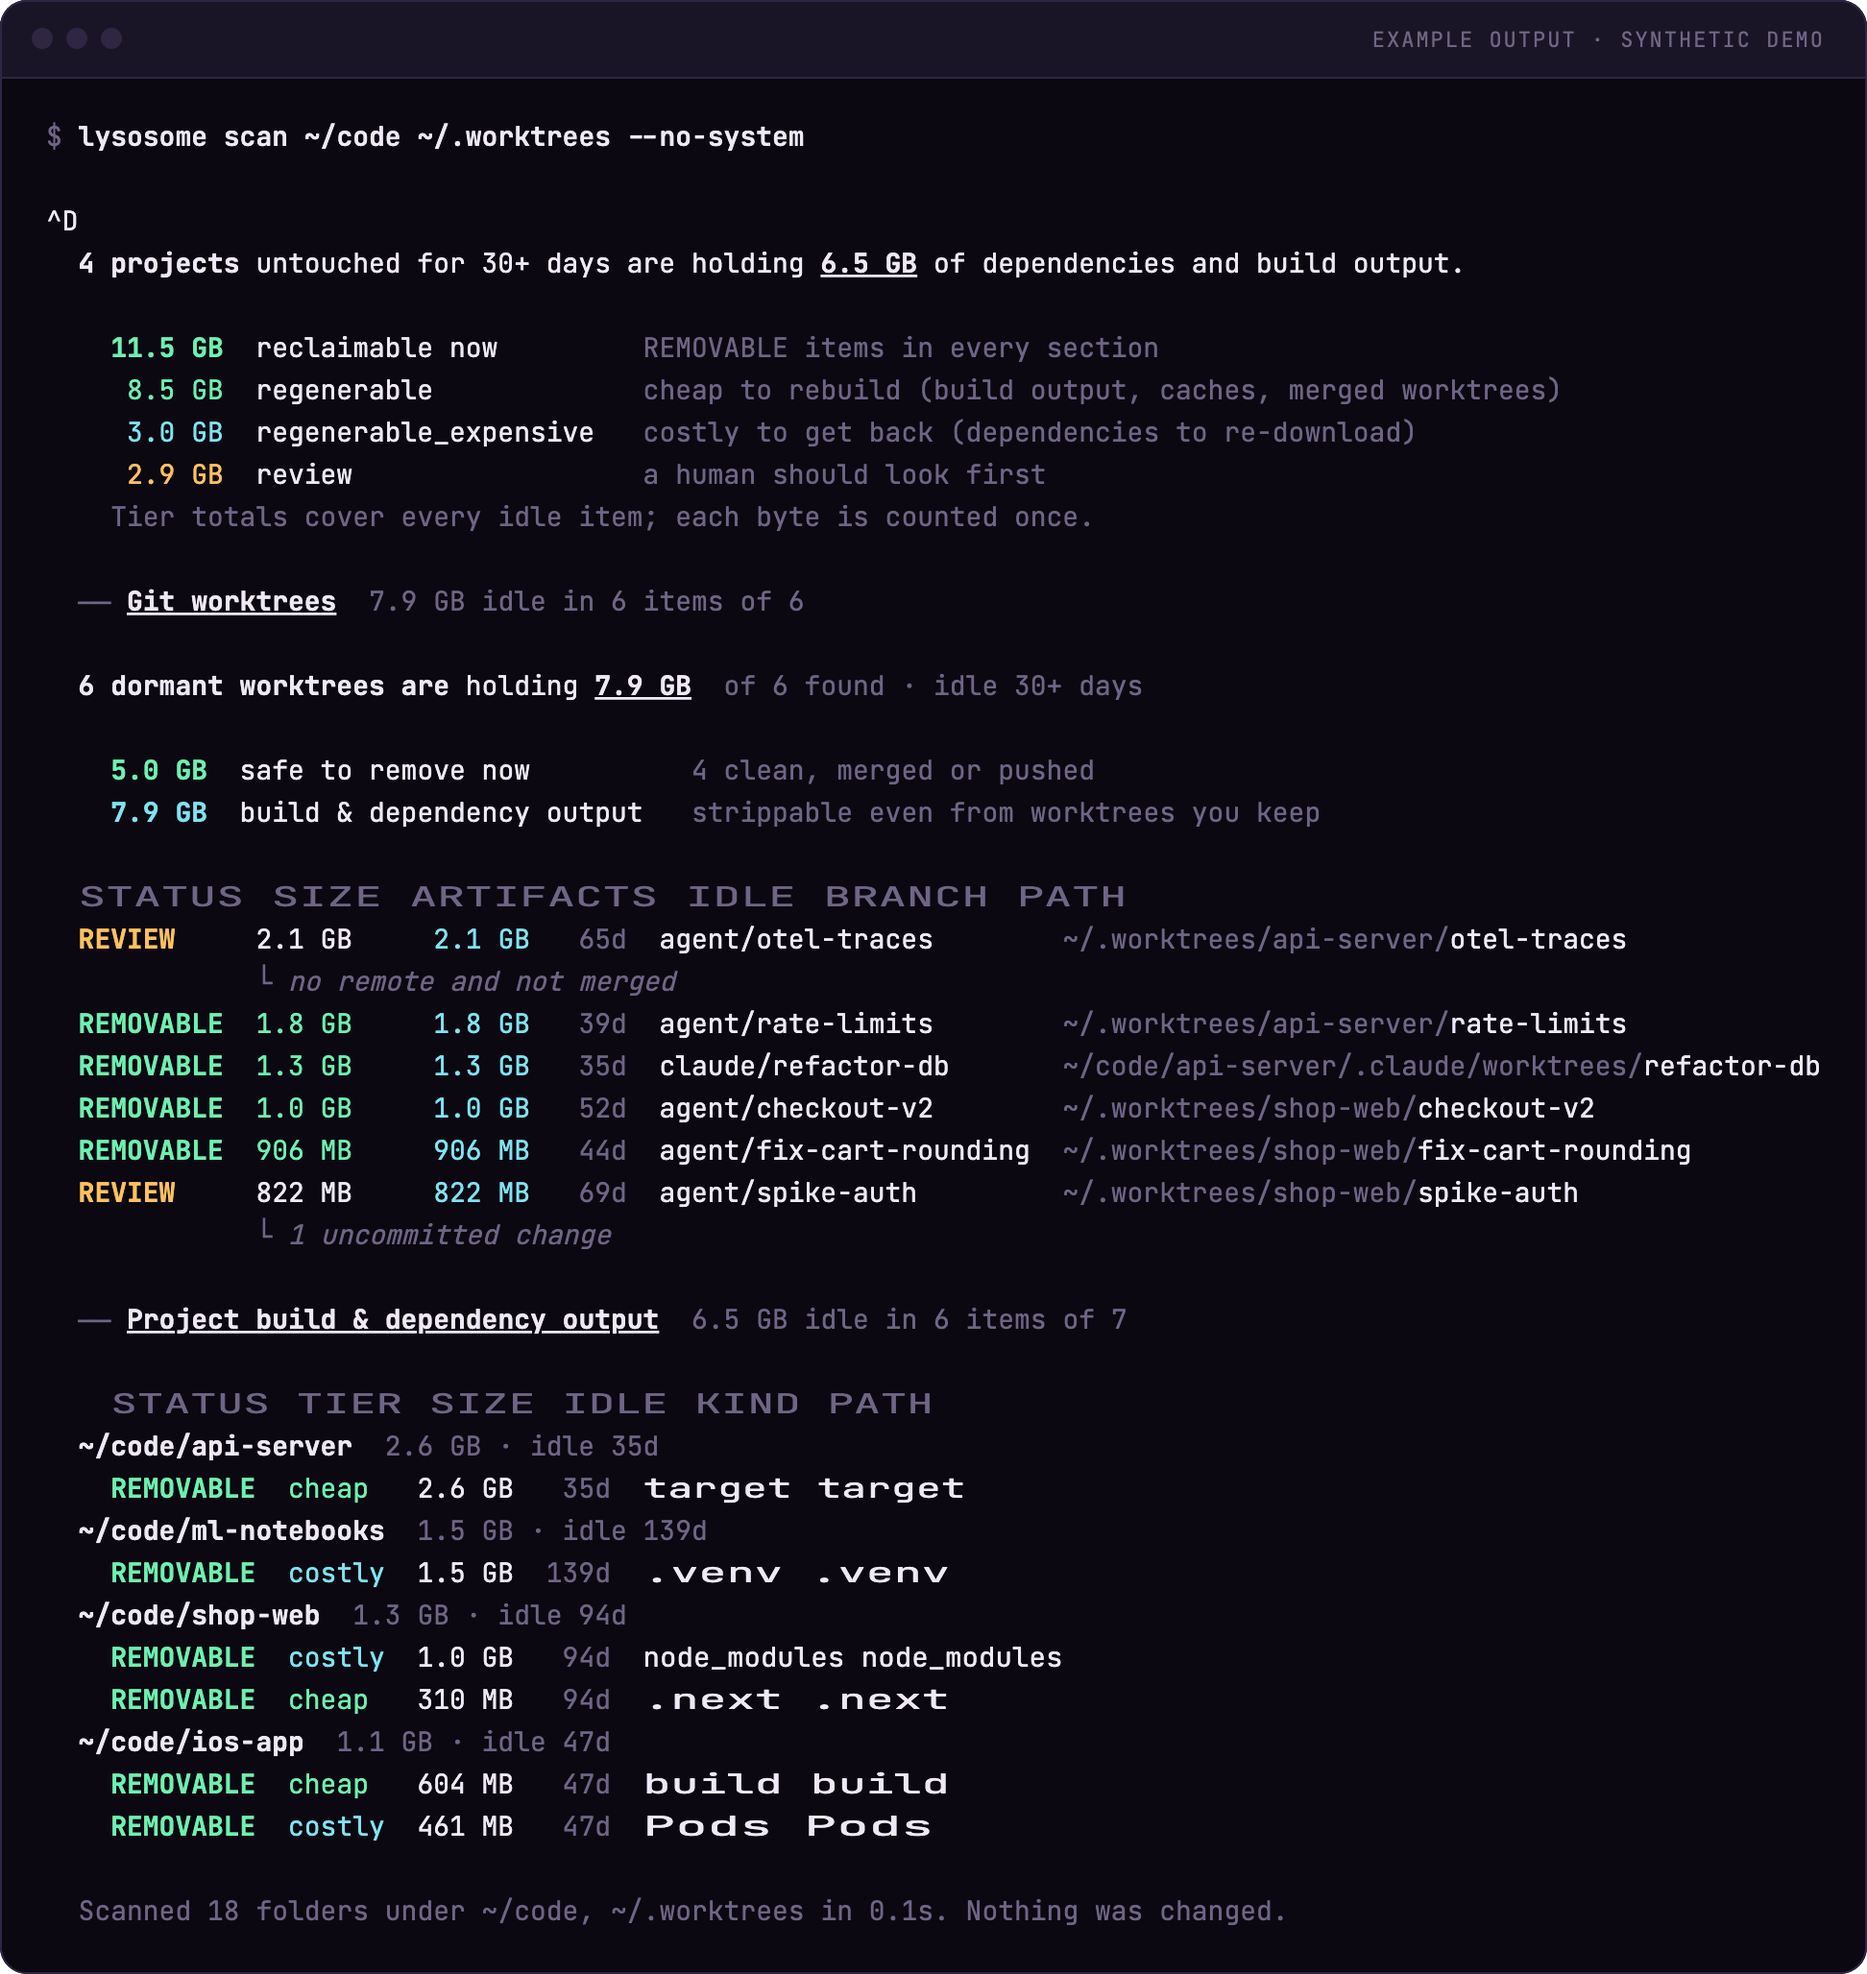
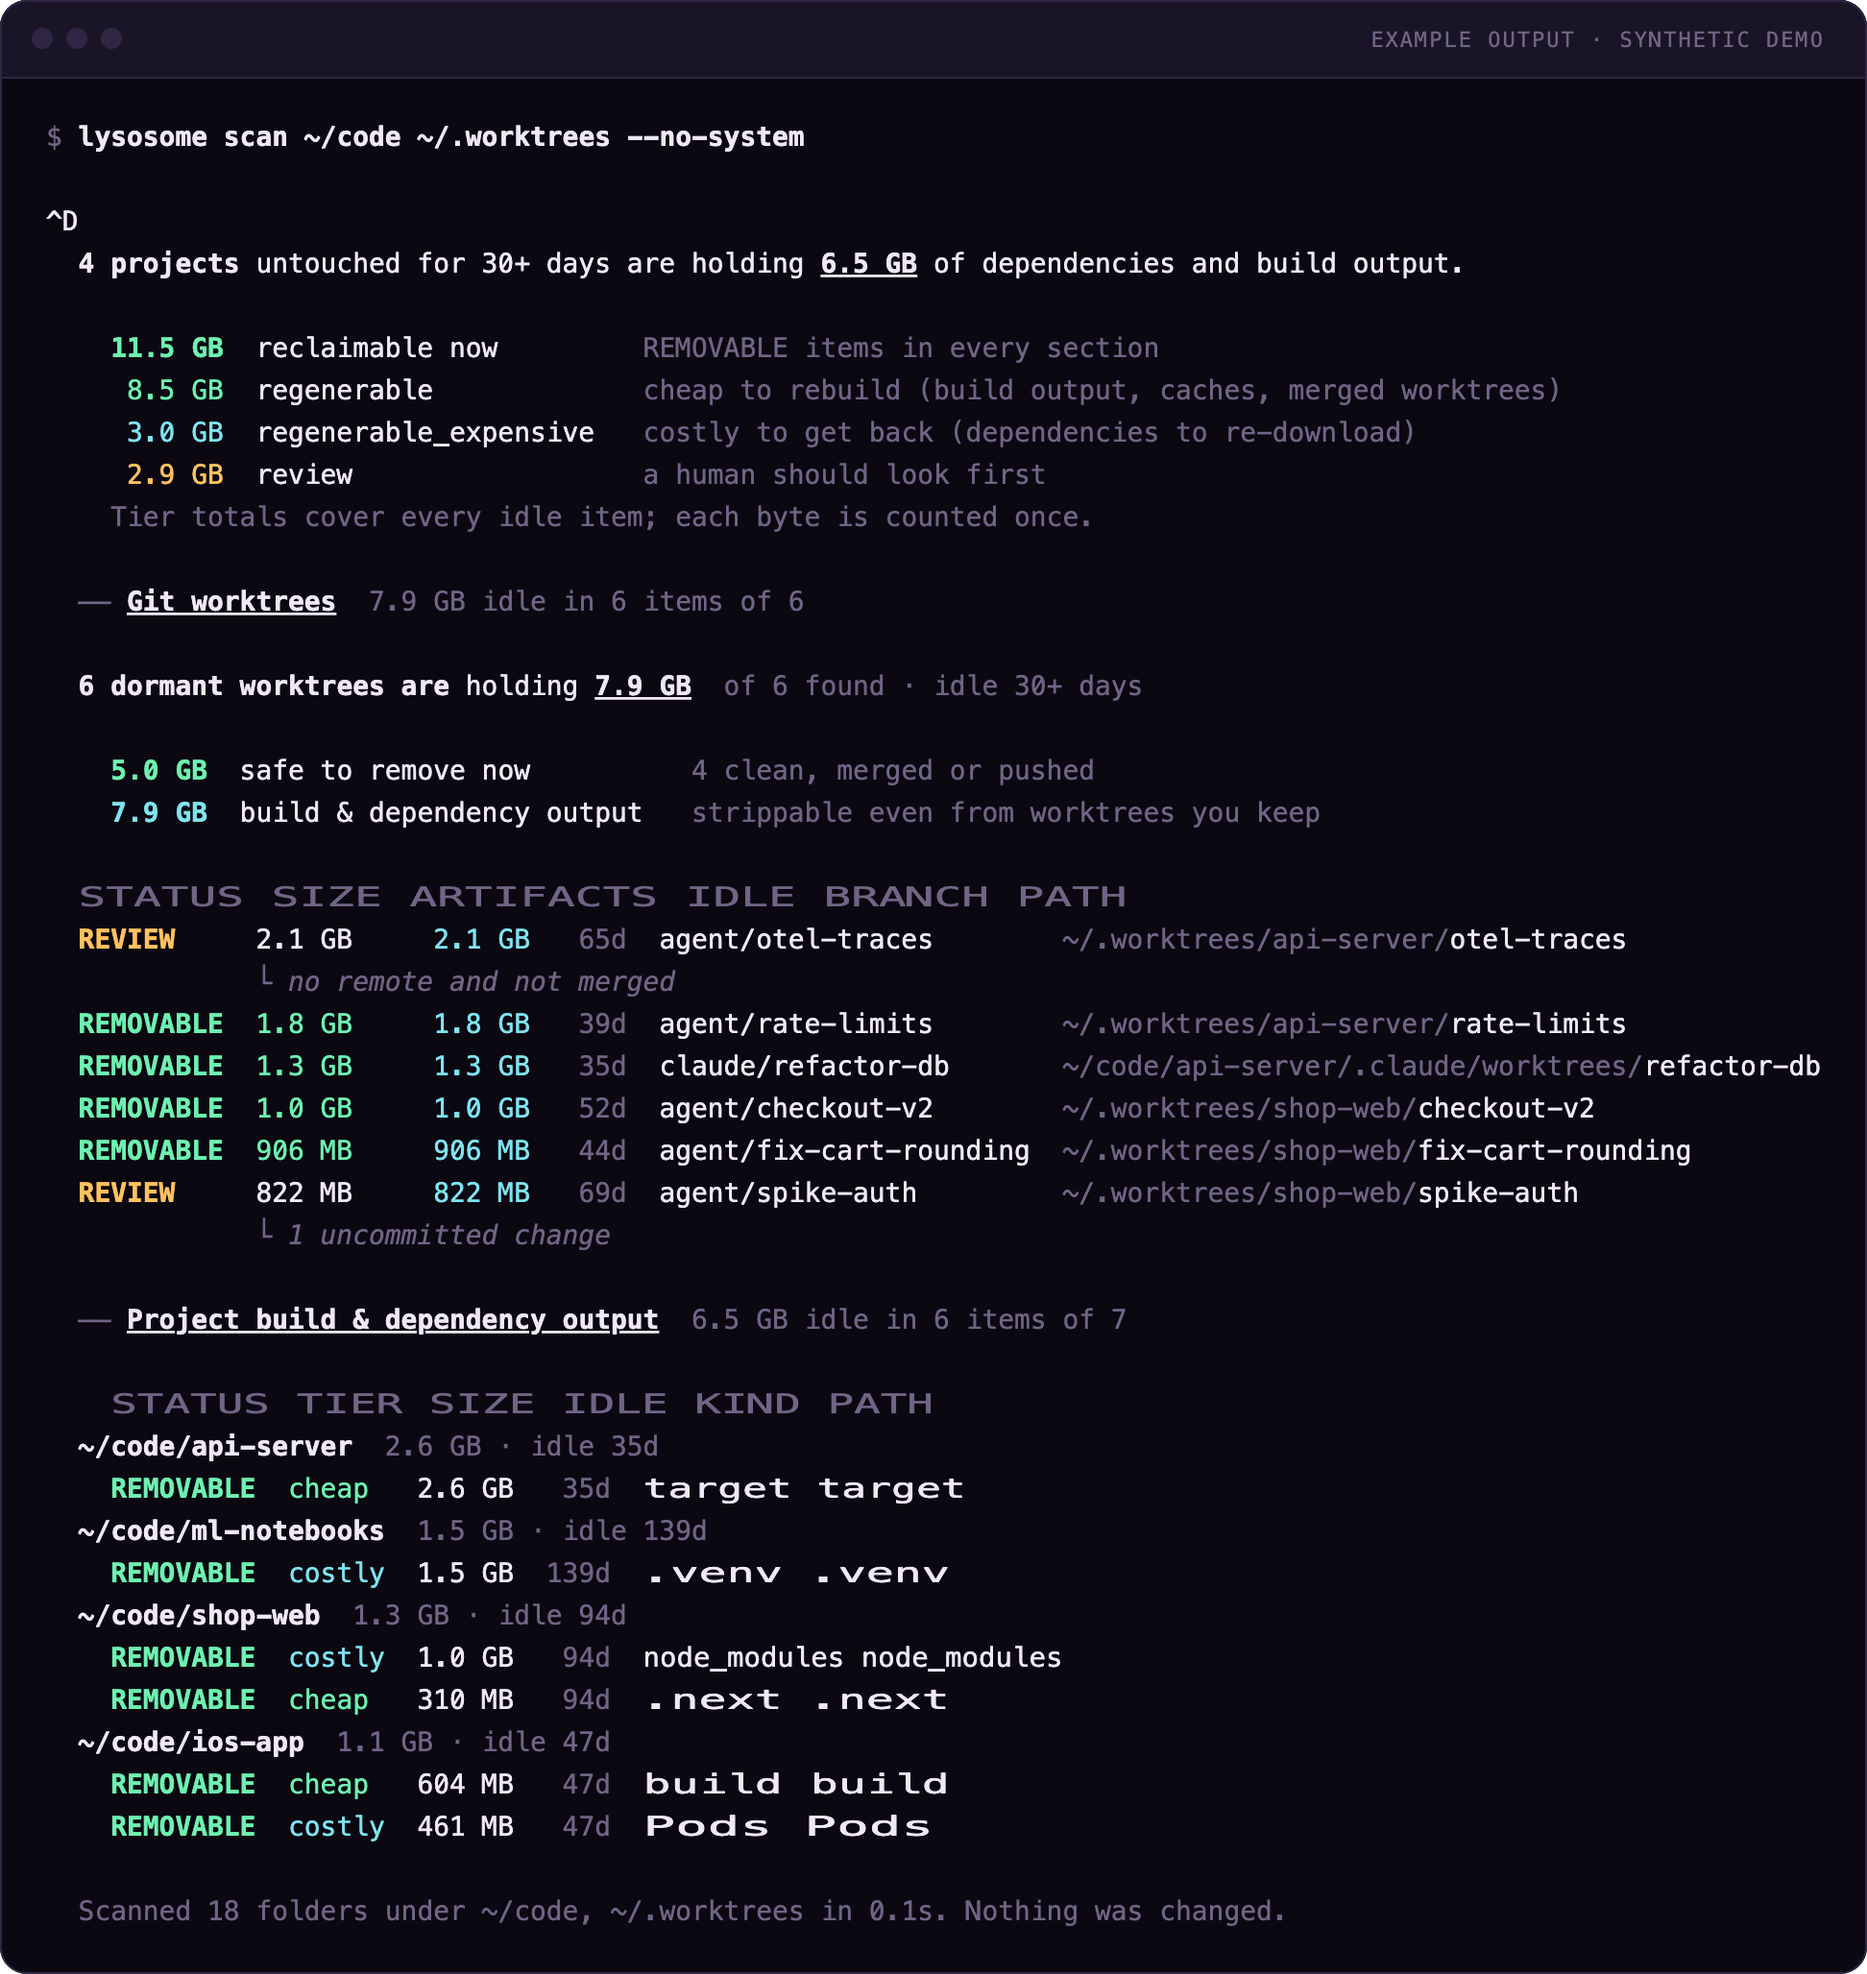
feat: compact terminal hero variant for README headers (#1)
scan-hero-{dark,light}.svg/png: summary + worktrees section of the same
real scan output, sized for a README header. render.sh regenerates it.

AI-Tool: claude-code
AI-Session: df9bd3bc-3dca-4753-b131-2e1f70c6bdec

diff --git a/README.md b/README.md
@@ -73,8 +73,9 @@ Real `lysosome scan` output, captured from a synthetic demo tree
 
 <img src="terminal/scan-dark.svg" width="720" alt="lysosome scan output">
 
-`scan-dark.svg` / `scan-light.svg` (short), `scan-full-*.svg` (with the suggested cleanup
-commands), and PNGs at 2×.
+`scan-hero-*.svg` (summary + worktrees, for README headers), `scan-*.svg` (worktrees +
+projects), `scan-full-*.svg` (with the suggested cleanup commands), each in dark and light,
+plus PNGs at 2×.
 
 ## Tokens
 
